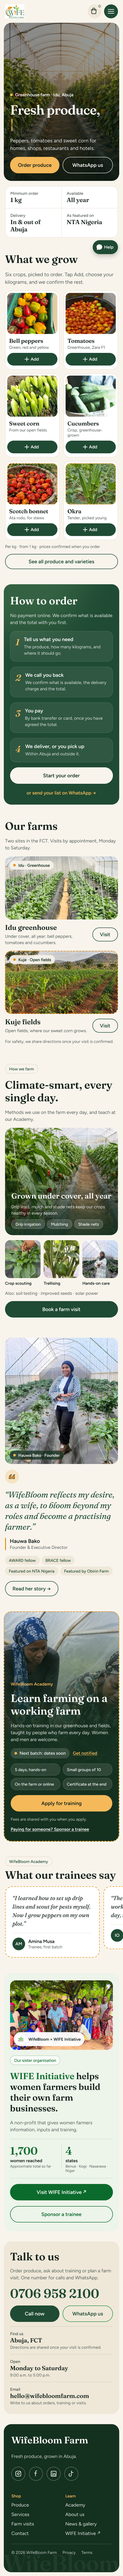
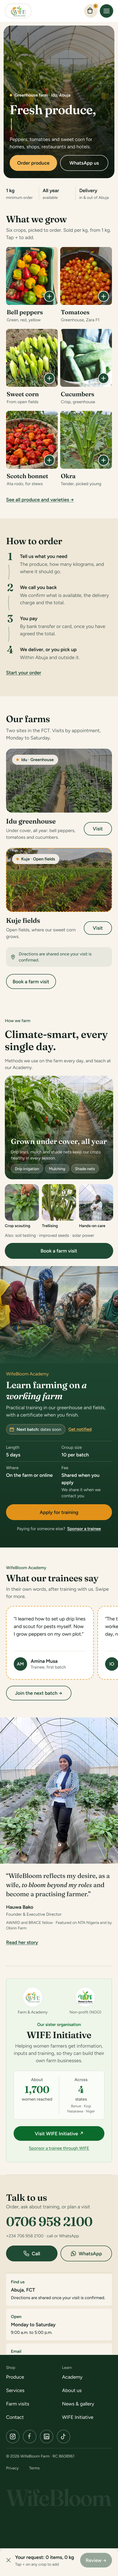
feat: update portfolio details and project links
- Add degree information to About page
- Update professional summary
- Replace project gallery interaction with direct external link for EcoSmart
- Improve scroll alignment performance in JS
- Add mobile imagery assets

diff --git a/css/style.css b/css/style.css
@@ -1238,10 +1238,6 @@ html[data-theme="dark"] .hero-portrait-video {
   background-color: var(--tint-ecosmart);
 }
 
-.project-media-ecosmart-web {
-  background-color: var(--tint-ecosmart-web);
-}
-
 .project-media-ajobook {
   background-color: var(--tint-ajobook);
 }
@@ -1286,22 +1282,25 @@ html[data-theme="dark"] .hero-portrait-video {
 
 .project-hover-label {
   position: absolute;
-  bottom: 1.5rem;
-  right: 1.5rem;
-  background-color: var(--hover-label-bg);
-  backdrop-filter: blur(4px);
-  padding: 0.65rem 1.25rem;
+  bottom: 20px;
+  right: 20px;
+  z-index: 2;
+  background-color: #ffffff;
+  padding: 10px 18px;
   border-radius: 9999px;
-  font-size: 0.85rem;
-  font-weight: 500;
-  color: var(--text-main);
-  display: flex;
+  font-size: 15px;
+  font-weight: 600;
+  line-height: 1.25;
+  color: #111;
+  display: inline-flex;
   align-items: center;
   gap: 0.35rem;
-  transform: translateY(0.75rem);
+  transform: translateY(6px);
   opacity: 0;
-  transition: transform 250ms ease-out, opacity 250ms ease-out;
-  border: 1px solid var(--border-color);
+  pointer-events: none;
+  box-shadow: 0 8px 24px rgba(0, 0, 0, 0.25);
+  border: none;
+  transition: opacity 0.25s ease, transform 0.25s ease;
 }
 
 .project-hover-label span:last-child,
@@ -1329,7 +1328,7 @@ html[data-theme="dark"] .hero-portrait-video {
     transform: none;
   }
 
-  .project-card:hover a .project-hover-label span:last-child,
+  .project-card:hover .project-hover-label span:last-child,
   .project-card:hover .link-arrow,
   a:hover .link-arrow {
     transform: translateX(4px);
@@ -1338,6 +1337,21 @@ html[data-theme="dark"] .hero-portrait-video {
   .project-card:hover .project-hover-label {
     transform: translateY(0);
     opacity: 1;
+  }
+}
+
+.project-card a:focus-visible .project-hover-label {
+  transform: translateY(0);
+  opacity: 1;
+}
+
+.project-card a:focus-visible .project-hover-label span:last-child {
+  transform: translateX(4px);
+}
+
+@media (hover: none) {
+  .project-hover-label {
+    display: none;
   }
 }
 
@@ -3214,7 +3228,7 @@ html[data-theme="dark"] .analytics-action-btn.danger:hover {
   .project-card:hover,
   .project-card:hover .project-media-wrap img,
   .project-card:hover .project-hover-label,
-  .project-card:hover a .project-hover-label span:last-child,
+  .project-card:hover .project-hover-label span:last-child,
   .project-card:hover .link-arrow,
   a:hover .link-arrow,
   a:focus-visible .link-arrow,
@@ -4898,17 +4912,6 @@ html[data-theme="dark"] .cs-video-frame {
   border-color: #2E2C28;
 }
 
-html[data-theme="dark"] .project-media-ecosmart-web {
-  background-color: #24221F !important;
-  padding: 16px;
-  border-radius: var(--radius);
-}
-
-html[data-theme="dark"] .project-media-ecosmart-web img {
-  border-radius: 10px;
-  filter: brightness(0.92);
-}
-
 html[data-theme="dark"] .ajo-specimen-outline-btn {
   color: var(--accent-color) !important;
   border-color: var(--accent-color) !important;
@@ -5544,6 +5547,35 @@ html[data-theme="dark"] .studio-chat-messages::-webkit-scrollbar-thumb {
   color: var(--accent-color);
   text-decoration: underline;
   font-weight: 500;
+}
+
+.about-education-block {
+  margin-top: 2.75rem;
+  padding-top: 2rem;
+  border-top: 1px solid var(--border-color);
+  max-width: 760px;
+}
+
+.about-education-heading {
+  margin-bottom: 0.65rem;
+}
+
+.about-education-degree {
+  font-family: var(--font-body);
+  font-size: 1.05rem;
+  font-weight: 400;
+  line-height: 1.5;
+  color: var(--text-main);
+  margin-bottom: 0.2rem;
+}
+
+.about-education-meta {
+  font-family: var(--font-body);
+  font-size: 0.92rem;
+  font-weight: 400;
+  line-height: 1.5;
+  color: var(--text-muted);
+  margin: 0;
 }
 
 /* Studio Wall: 4 Flipping Paper Notes */

diff --git a/js/main.js b/js/main.js
@@ -183,8 +183,13 @@ document.addEventListener('DOMContentLoaded', () => {
     if (hashTarget) {
       let userScrolled = false;
       let observer = null;
+      let alignRaf = null;
       const stopTracking = () => {
         userScrolled = true;
+        if (alignRaf !== null) {
+          cancelAnimationFrame(alignRaf);
+          alignRaf = null;
+        }
         if (observer) {
           observer.disconnect();
           observer = null;
@@ -204,20 +209,32 @@ document.addEventListener('DOMContentLoaded', () => {
         }
       };
 
-      requestAnimationFrame(alignHashTarget);
+      const scheduleAlign = () => {
+        if (userScrolled || alignRaf !== null) return;
+        alignRaf = requestAnimationFrame(() => {
+          alignRaf = null;
+          alignHashTarget();
+        });
+      };
+
+      scheduleAlign();
       if (typeof ResizeObserver !== 'undefined') {
-        observer = new ResizeObserver(() => alignHashTarget());
+        observer = new ResizeObserver(scheduleAlign);
         observer.observe(document.body);
       }
       if (document.readyState === 'complete') {
-        setTimeout(alignHashTarget, 120);
+        setTimeout(scheduleAlign, 120);
       } else {
         window.addEventListener('load', () => {
-          requestAnimationFrame(alignHashTarget);
-          setTimeout(alignHashTarget, 150);
+          scheduleAlign();
+          setTimeout(scheduleAlign, 150);
         }, { once: true });
       }
       setTimeout(() => {
+        if (alignRaf !== null) {
+          cancelAnimationFrame(alignRaf);
+          alignRaf = null;
+        }
         if (observer) {
           observer.disconnect();
           observer = null;
@@ -1859,11 +1876,20 @@ document.addEventListener('DOMContentLoaded', () => {
         }
       };
 
+      let resizeRaf = null;
+      const scheduleResize = () => {
+        if (resizeRaf !== null) return;
+        resizeRaf = requestAnimationFrame(() => {
+          resizeRaf = null;
+          handleResize();
+        });
+      };
+
       if ('ResizeObserver' in window) {
-        const heroResizeObserver = new ResizeObserver(handleResize);
+        const heroResizeObserver = new ResizeObserver(scheduleResize);
         heroResizeObserver.observe(heroSection);
       } else {
-        window.addEventListener('resize', handleResize, { passive: true });
+        window.addEventListener('resize', scheduleResize, { passive: true });
       }
 
       if ('MutationObserver' in window) {

diff --git a/index.html b/index.html
@@ -35,7 +35,6 @@
 
     <!-- Master Stylesheet -->
     <link rel="stylesheet" href="/css/style.css" />
-    <link rel="preload" as="image" href="/images/ecosmart/ecosmart-web-hero.webp" />
     <script>
       (function () {
         try {
@@ -572,27 +571,24 @@
             </article>
 
             <article class="project-card">
-              <div
-                class="project-media-wrap project-media-ecosmart-web reveal-fade-up"
-                data-gallery-trigger="ecosmart-web"
-                role="button"
-                tabindex="0"
-                aria-label="View 3 screens of the EcoSmart AI company website"
-                style="cursor: pointer;"
+              <a
+                href="https://ecosmartapp.com"
+                target="_blank"
+                rel="noopener noreferrer"
+                style="display: block; text-decoration: none; color: inherit;"
               >
-                <img
-                  src="/images/ecosmart/ecosmart-web-hero.webp"
-                  alt="The EcoSmart AI homepage in a desktop browser and on a phone, showing the headline 'Turning waste into value'."
-                  loading="eager"
-                  fetchpriority="high"
-                  decoding="sync"
-                  style="object-fit: cover; object-position: center; width: 100%; height: 100%;"
-                />
-                <div class="project-hover-label" aria-hidden="true">
-                  <span>View 3 screens</span>
-                  <span>⛶</span>
+                <div class="project-media-wrap project-media-cover project-media-ecosmart-web reveal-fade-up">
+                  <img
+                    src="/images/covers/ecosmart-web-cover.png"
+                    alt="EcoSmart AI company website cover"
+                    loading="lazy"
+                  />
+                  <div class="project-hover-label" aria-hidden="true">
+                    <span>View site</span>
+                    <span>→</span>
+                  </div>
                 </div>
-              </div>
+              </a>
               <div class="project-info">
                 <div class="project-meta-row">
                   <span class="category-tag">Web design</span>

diff --git a/about.html b/about.html
@@ -118,7 +118,7 @@
               <span class="category-tag">ABOUT ME</span>
               <h1 id="aboutIntroHeading" class="about-intro-title reveal-fade-up">Hi, I'm Maryam.</h1>
               <p class="about-intro-summary">
-                Product designer in Abuja, designing AI, fintech, edtech and climate products for people in emerging markets.
+                Product designer in Abuja, designing AI, fintech, edtech and climate products for people in emerging markets. I studied Computer Science, so I design with how things get built in mind, and I can take a project from Figma to a live website.
               </p>
             </div>
           </div>
@@ -318,6 +318,12 @@
                 </span>
               </button>
             </div>
+          </div>
+
+          <div class="about-education-block reveal-fade-up">
+            <h3 class="category-tag about-education-heading">Education</h3>
+            <p class="about-education-degree">B.Tech Computer Science</p>
+            <p class="about-education-meta">Federal University of Technology, Minna · 2021</p>
           </div>
         </div>
       </section>
